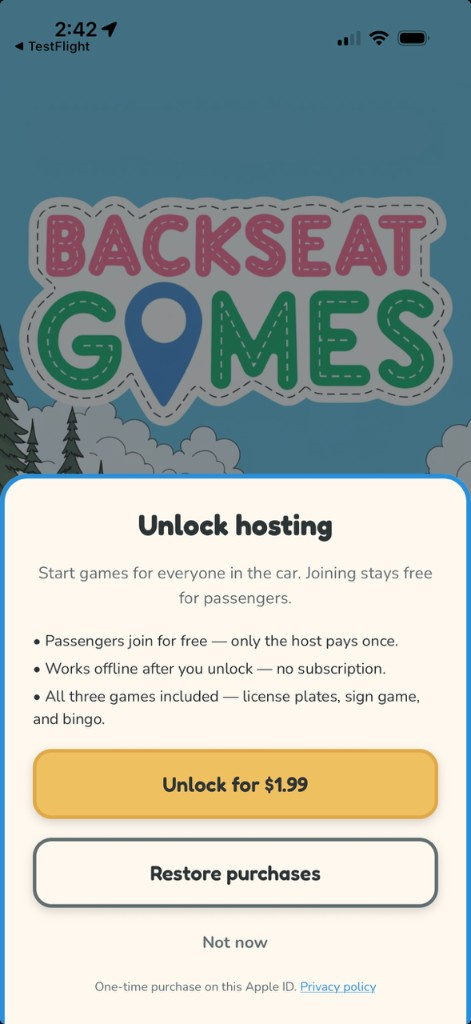
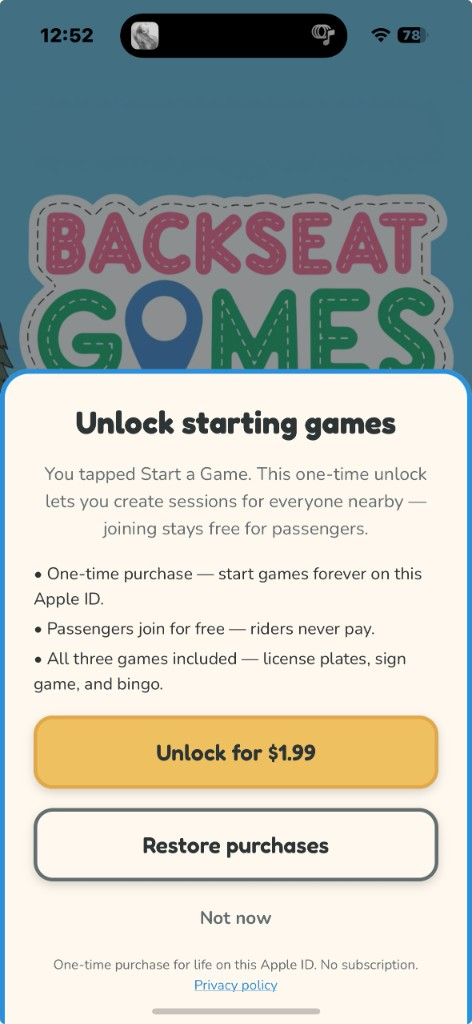
Add randomized game scenery, horn tap sounds, and refreshed IAP assets.
Rotate pink-car heroes in lobby and gameplay per session, and play car or truck horns when claiming plates or bingo squares.

Changed region(s): [[0.0, 0.1875, 1.0, 1.0], [0.0297, 0.0, 0.7431, 0.0625], [0.7728, 0.0, 0.9214, 0.0625]]

diff --git a/src/data/gameSceneryRotation.ts b/src/data/gameSceneryRotation.ts
@@ -1,0 +1,51 @@
+import type { ImageSourcePropType } from 'react-native';
+
+/** Portrait hero size shared by waiting room + in-game scenery rotation. */
+export const GAME_SCENERY_WIDTH = 720;
+export const GAME_SCENERY_HEIGHT = 1456;
+export const GAME_SCENERY_ASPECT = GAME_SCENERY_WIDTH / GAME_SCENERY_HEIGHT;
+
+export type GameSceneryEntry = {
+  id: string;
+  label: string;
+  source: ImageSourcePropType;
+};
+
+/**
+ * Randomized backgrounds for game waiting rooms and active gameplay.
+ * Add new art under assets/branding/game-scenery/, then append here and ROTATION.md.
+ */
+export const gameSceneryRotation: GameSceneryEntry[] = [
+  {
+    id: 'rolling-hills',
+    label: 'Rolling hills (original waiting room)',
+    source: require('../../assets/branding/waiting-hero.webp'),
+  },
+  {
+    id: 'countryside-blue-sky',
+    label: 'Countryside & open road',
+    source: require('../../assets/branding/game-scenery/countryside-blue-sky.webp'),
+  },
+  {
+    id: 'canyon-blue-sky',
+    label: 'Desert canyon',
+    source: require('../../assets/branding/game-scenery/canyon-blue-sky.webp'),
+  },
+  {
+    id: 'snowy-moose-blue-sky',
+    label: 'Snowy mountains & moose',
+    source: require('../../assets/branding/game-scenery/snowy-moose-blue-sky.webp'),
+  },
+];
+
+export function sceneryIndexForSession(sessionId: string): number {
+  let hash = 0;
+  for (let i = 0; i < sessionId.length; i += 1) {
+    hash = (hash * 31 + sessionId.charCodeAt(i)) >>> 0;
+  }
+  return hash % gameSceneryRotation.length;
+}
+
+export function gameSceneryForSession(sessionId: string): GameSceneryEntry {
+  return gameSceneryRotation[sceneryIndexForSession(sessionId)];
+}

diff --git a/src/services/feedback.ts b/src/services/feedback.ts
@@ -4,6 +4,8 @@ import { usePreferencesStore } from '../store/preferencesStore';
 
 let tapPlayer: AudioPlayer | null = null;
 let winPlayer: AudioPlayer | null = null;
+let hornCarPlayer: AudioPlayer | null = null;
+let hornTruckPlayer: AudioPlayer | null = null;
 let audioReady = false;
 
 async function ensureAudio(): Promise<void> {
@@ -13,6 +15,8 @@ async function ensureAudio(): Promise<void> {
   await setAudioModeAsync({ playsInSilentMode: true, allowsRecording: false });
   tapPlayer = createAudioPlayer(require('../../assets/sounds/tap.wav'));
   winPlayer = createAudioPlayer(require('../../assets/sounds/win.wav'));
+  hornCarPlayer = createAudioPlayer(require('../../assets/sounds/horn-car.wav'));
+  hornTruckPlayer = createAudioPlayer(require('../../assets/sounds/horn-truck.wav'));
   audioReady = true;
 }
 
@@ -46,6 +50,24 @@ export async function playWinFeedback(): Promise<void> {
     await ensureAudio();
     winPlayer?.seekTo(0);
     winPlayer?.play();
+  } catch {
+    // Audio is optional polish.
+  }
+}
+
+export async function playHornFeedback(): Promise<void> {
+  const { hapticsEnabled, soundEffectsEnabled } = prefs();
+  if (hapticsEnabled) {
+    void Haptics.impactAsync(Haptics.ImpactFeedbackStyle.Medium);
+  }
+  if (!soundEffectsEnabled) {
+    return;
+  }
+  try {
+    await ensureAudio();
+    const player = Math.random() < 0.5 ? hornCarPlayer : hornTruckPlayer;
+    player?.seekTo(0);
+    player?.play();
   } catch {
     // Audio is optional polish.
   }

diff --git a/src/components/brand/SceneryBackground.tsx b/src/components/brand/SceneryBackground.tsx
@@ -1,10 +1,13 @@
 import type { ReactNode } from 'react';
-import { Image, StyleSheet, View } from 'react-native';
+import { Image, StyleSheet, View, type ImageSourcePropType } from 'react-native';
+import { GAME_SCENERY_ASPECT } from '@/data/gameSceneryRotation';
 import { heroAspectRatio, sceneryImages, type SceneryVariant } from '@/data/brandAssets';
 import { brand } from '@/theme/brand';
 
 type SceneryBackgroundProps = {
   variant: SceneryVariant;
+  /** Overrides the static variant art (lobby + gameplay rotation). */
+  scenerySource?: ImageSourcePropType;
   children?: ReactNode;
 };
 
@@ -12,15 +15,20 @@ type SceneryBackgroundProps = {
  * Hero scales uniformly to full screen width (no side letterboxing), anchored
  * to the bottom. Shorter screens show sky above; taller art crops from the top.
  */
-export function SceneryBackground({ variant, children }: SceneryBackgroundProps) {
-  const ratio = heroAspectRatio(variant);
+export function SceneryBackground({
+  variant,
+  scenerySource,
+  children,
+}: SceneryBackgroundProps) {
+  const ratio = scenerySource ? GAME_SCENERY_ASPECT : heroAspectRatio(variant);
+  const source = scenerySource ?? sceneryImages[variant];
 
   return (
     <View style={styles.root}>
       <View style={styles.anchor}>
         <View style={[styles.artFrame, { aspectRatio: ratio }]}>
           <Image
-            source={sceneryImages[variant]}
+            source={source}
             style={styles.artImage}
             resizeMode="cover"
             accessibilityIgnoresInvertColors

diff --git a/src/hooks/useSessionGameScenery.ts b/src/hooks/useSessionGameScenery.ts
@@ -1,0 +1,16 @@
+import { useMemo } from 'react';
+import type { ImageSourcePropType } from 'react-native';
+import { gameSceneryForSession } from '@/data/gameSceneryRotation';
+import { useSessionStore } from '@/store/sessionStore';
+
+/** Session-stable randomized scenery for lobby + gameplay screens. */
+export function useSessionGameScenery(): ImageSourcePropType | undefined {
+  const sessionId = useSessionStore((state) => state.session?.sessionId);
+
+  return useMemo(() => {
+    if (!sessionId) {
+      return undefined;
+    }
+    return gameSceneryForSession(sessionId).source;
+  }, [sessionId]);
+}

diff --git a/src/components/brand/SceneryScreenFrame.tsx b/src/components/brand/SceneryScreenFrame.tsx
@@ -1,5 +1,11 @@
 import type { ReactNode } from 'react';
-import { StyleSheet, View, type StyleProp, type ViewStyle } from 'react-native';
+import {
+  StyleSheet,
+  View,
+  type ImageSourcePropType,
+  type StyleProp,
+  type ViewStyle,
+} from 'react-native';
 import { SafeAreaView } from 'react-native-safe-area-context';
 import type { SceneryVariant } from '@/data/brandAssets';
 import { STACK_HEADER_CLEARANCE } from '@/components/brand/SceneryScrollShell';
@@ -9,6 +15,7 @@ import { spacing } from '@/theme';
 type SceneryScreenFrameProps = {
   children: ReactNode;
   variant?: SceneryVariant;
+  scenerySource?: ImageSourcePropType;
   style?: StyleProp<ViewStyle>;
   headerClearance?: boolean;
 };
@@ -17,11 +24,12 @@ type SceneryScreenFrameProps = {
 export function SceneryScreenFrame({
   children,
   variant = 'lobby',
+  scenerySource,
   style,
   headerClearance = true,
 }: SceneryScreenFrameProps) {
   return (
-    <SceneryBackground variant={variant}>
+    <SceneryBackground variant={variant} scenerySource={scenerySource}>
       <SafeAreaView style={styles.safe} edges={['bottom']}>
         <View
           style={[

diff --git a/src/components/brand/SceneryScrollShell.tsx b/src/components/brand/SceneryScrollShell.tsx
@@ -1,5 +1,11 @@
 import type { ReactNode } from 'react';
-import { Platform, ScrollView, StyleSheet, type ScrollViewProps } from 'react-native';
+import {
+  Platform,
+  ScrollView,
+  StyleSheet,
+  type ImageSourcePropType,
+  type ScrollViewProps,
+} from 'react-native';
 import { SafeAreaView } from 'react-native-safe-area-context';
 import type { SceneryVariant } from '@/data/brandAssets';
 import { SceneryBackground } from '@/components/brand/SceneryBackground';
@@ -12,6 +18,7 @@ export const STACK_HEADER_CLEARANCE =
 type SceneryScrollShellProps = {
   children: ReactNode;
   variant?: SceneryVariant;
+  scenerySource?: ImageSourcePropType;
   contentContainerStyle?: ScrollViewProps['contentContainerStyle'];
   headerClearance?: boolean;
 };
@@ -19,11 +26,12 @@ type SceneryScrollShellProps = {
 export function SceneryScrollShell({
   children,
   variant = 'lobby',
+  scenerySource,
   contentContainerStyle,
   headerClearance = true,
 }: SceneryScrollShellProps) {
   return (
-    <SceneryBackground variant={variant}>
+    <SceneryBackground variant={variant} scenerySource={scenerySource}>
       <SafeAreaView style={styles.safe} edges={['bottom']}>
         <ScrollView
           contentContainerStyle={[

diff --git a/app/game/bingo.tsx b/app/game/bingo.tsx
@@ -5,7 +5,7 @@ import Animated, {
   useSharedValue,
   withSpring,
 } from 'react-native-reanimated';
-import * as Haptics from 'expo-haptics';
+import { playHornFeedback } from '@/services/feedback';
 import { ContentCapsule } from '@/components/brand/ContentCapsule';
 import { SceneryScreenFrame } from '@/components/brand/SceneryScreenFrame';
 import { GameEndBar } from '@/components/GameEndBar';
@@ -16,6 +16,7 @@ import {
   getBingoSquareLabel,
 } from '@/games/bingo';
 import { useGameSessionGuard } from '@/hooks/useGameSessionGuard';
+import { useSessionGameScenery } from '@/hooks/useSessionGameScenery';
 import { useSessionStore } from '@/store/sessionStore';
 import { getSessionWinnerDisplay } from '@/utils/winnerLabel';
 import { borders, colors, fonts, radii, spacing } from '@/theme';
@@ -25,6 +26,7 @@ export default function BingoScreen() {
   const session = useSessionStore((state) => state.session);
   const localPlayerId = useSessionStore((state) => state.localPlayerId);
   const dispatchAction = useSessionStore((state) => state.dispatchAction);
+  const scenerySource = useSessionGameScenery();
 
   const requestEnd = useCallback(() => guard.requestEndGame(), [guard]);
 
@@ -44,7 +46,7 @@ export default function BingoScreen() {
   }
 
   return (
-    <SceneryScreenFrame>
+    <SceneryScreenFrame scenerySource={scenerySource}>
       <GameSessionOverlays
         guard={guard}
         winnerHeadline={winnerDisplay?.headline}
@@ -66,7 +68,7 @@ export default function BingoScreen() {
               isMarked={isMarked}
               isFree={index === FREE_CENTER_INDEX}
               onPress={() => {
-                void Haptics.selectionAsync();
+                void playHornFeedback();
                 if (isMarked && index !== FREE_CENTER_INDEX) {
                   dispatchAction({ type: 'UNMARK_BINGO', index });
                 } else if (!isMarked) {

diff --git a/app/game/license-plates.tsx b/app/game/license-plates.tsx
@@ -1,7 +1,7 @@
 import { FlashList } from '@shopify/flash-list';
 import { useCallback, useMemo } from 'react';
 import { Image, Pressable, StyleSheet, Text, View } from 'react-native';
-import * as Haptics from 'expo-haptics';
+import { playHornFeedback } from '@/services/feedback';
 import { SceneryScreenFrame } from '@/components/brand/SceneryScreenFrame';
 import { GameEndBar } from '@/components/GameEndBar';
 import { GameSessionOverlays } from '@/components/GameSessionOverlays';
@@ -10,6 +10,7 @@ import { plates } from '@/data';
 import { plateImageByCode } from '@/data/plateImages';
 import { getLicensePlateScores } from '@/games/licensePlates';
 import { useGameSessionGuard } from '@/hooks/useGameSessionGuard';
+import { useSessionGameScenery } from '@/hooks/useSessionGameScenery';
 import { useSessionStore } from '@/store/sessionStore';
 import { getSessionWinnerDisplay } from '@/utils/winnerLabel';
 import { colors, fonts, radii, spacing } from '@/theme';
@@ -19,6 +20,7 @@ export default function LicensePlatesScreen() {
   const session = useSessionStore((state) => state.session);
   const localPlayerId = useSessionStore((state) => state.localPlayerId);
   const dispatchAction = useSessionStore((state) => state.dispatchAction);
+  const scenerySource = useSessionGameScenery();
 
   const requestEnd = useCallback(() => guard.requestEndGame(), [guard]);
 
@@ -48,7 +50,7 @@ export default function LicensePlatesScreen() {
   }
 
   return (
-    <SceneryScreenFrame>
+    <SceneryScreenFrame scenerySource={scenerySource}>
       <GameSessionOverlays
         guard={guard}
         winnerHeadline={winnerDisplay?.headline}
@@ -73,7 +75,7 @@ export default function LicensePlatesScreen() {
             <Pressable
               style={styles.cell}
               onPress={() => {
-                void Haptics.selectionAsync();
+                void playHornFeedback();
                 if (isMine) {
                   dispatchAction({ type: 'UNCLAIM_PLATE', plateCode: item.code });
                 } else if (!isTaken) {

diff --git a/app/game/sign-game.tsx b/app/game/sign-game.tsx
@@ -20,6 +20,7 @@ import { Scoreboard } from '@/components/Scoreboard';
 import { ALPHABET, letterMatchHint } from '@/games/signGameUtils';
 import { getSignGameLeaderboard } from '@/games/signGame';
 import { useGameSessionGuard } from '@/hooks/useGameSessionGuard';
+import { useSessionGameScenery } from '@/hooks/useSessionGameScenery';
 import { useSignGameSpeech } from '@/hooks/useSignGameSpeech';
 import { useSessionStore } from '@/store/sessionStore';
 import { getSessionWinnerDisplay } from '@/utils/winnerLabel';
@@ -32,6 +33,7 @@ export default function SignGameScreen() {
   const session = useSessionStore((state) => state.session);
   const localPlayerId = useSessionStore((state) => state.localPlayerId);
   const dispatchAction = useSessionStore((state) => state.dispatchAction);
+  const scenerySource = useSessionGameScenery();
   const [modalOpen, setModalOpen] = useState(false);
   const [word, setWord] = useState('');
 
@@ -101,7 +103,7 @@ export default function SignGameScreen() {
   };
 
   return (
-    <SceneryScreenFrame>
+    <SceneryScreenFrame scenerySource={scenerySource}>
       <ScrollView style={styles.scroll} contentContainerStyle={styles.container}>
         <GameSessionOverlays
           guard={guard}

diff --git a/app/lobby/[sessionId].tsx b/app/lobby/[sessionId].tsx
@@ -16,6 +16,7 @@ import { PlayerChip } from '@/components/PlayerChip';
 import { GAME_LABELS } from '@/data';
 import { getMultiplayerService } from '@/multiplayer';
 import { useSessionStore } from '@/store/sessionStore';
+import { useSessionGameScenery } from '@/hooks/useSessionGameScenery';
 import type { GameType } from '@/types/game';
 import { borders, colors, fonts, radii, spacing } from '@/theme';
 
@@ -32,6 +33,7 @@ export default function LobbyScreen() {
   const localPlayerId = useSessionStore((state) => state.localPlayerId);
   const startHostedGame = useSessionStore((state) => state.startHostedGame);
   const updateSessionRules = useSessionStore((state) => state.updateSessionRules);
+  const scenerySource = useSessionGameScenery();
 
   useEffect(() => {
     if (session?.phase === 'playing' && session.gameType) {
@@ -63,7 +65,7 @@ export default function LobbyScreen() {
     (session.gameType === 'bingo' ? session.players.length >= 1 : otherPlayers.length >= 1);
 
   return (
-    <SceneryScrollShell contentContainerStyle={styles.container}>
+    <SceneryScrollShell scenerySource={scenerySource} contentContainerStyle={styles.container}>
       <ContentCapsule>
         <Text style={styles.subtitle}>
           {isHost

diff --git a/assets/branding/game-scenery/ROTATION.md b/assets/branding/game-scenery/ROTATION.md
@@ -1,0 +1,18 @@
+# Game scenery rotation
+
+Randomized **waiting room** and **in-game** backgrounds. Home, host setup, and join screens keep their fixed heroes.
+
+Drop new PNG/WebP art in this folder, run `node scripts/promote-game-scenery.mjs your-file.png "Short label"`, then review the entry it adds to `src/data/gameSceneryRotation.ts`.
+
+Target size: **720×1456** (same as `waiting-hero.webp`). The promote script resizes to cover, bottom-anchored.
+
+## Currently in rotation
+
+| ID | File | Label |
+|----|------|-------|
+| `rolling-hills` | `../waiting-hero.webp` | Rolling hills (original waiting room) |
+| `countryside-blue-sky` | `countryside-blue-sky.webp` | Countryside & open road |
+| `canyon-blue-sky` | `canyon-blue-sky.webp` | Desert canyon |
+| `snowy-moose-blue-sky` | `snowy-moose-blue-sky.webp` | Snowy mountains & moose |
+
+All players in a session see the same pick (derived from session id).

diff --git a/docs/BRAND.md b/docs/BRAND.md
@@ -26,7 +26,11 @@ Style bible: [`scripts/brand-prompts.json`](../scripts/brand-prompts.json)
 |------|--------|
 | `home-hero.webp` | Home — logo + Start / Join / Settings signs (768×1536) |
 | `host-hero.webp` | Host setup — game signs only, no logo (720×1456) |
-| `waiting-hero.webp` | Join + waiting room — scenery only, no logo or signpost |
+| `waiting-hero.webp` | Join screen (fixed) + one entry in game scenery rotation |
+
+### Game scenery rotation (lobby + gameplay)
+
+Random pink-car heroes live in `assets/branding/game-scenery/`. See **`ROTATION.md`** in that folder for the current list. Registry: `src/data/gameSceneryRotation.ts`. Promote new art with `node scripts/promote-game-scenery.mjs your.png "Label"`.
 
 Drafts (for regen review): `assets/branding/drafts/*-draft-recraft-v4.webp`
 